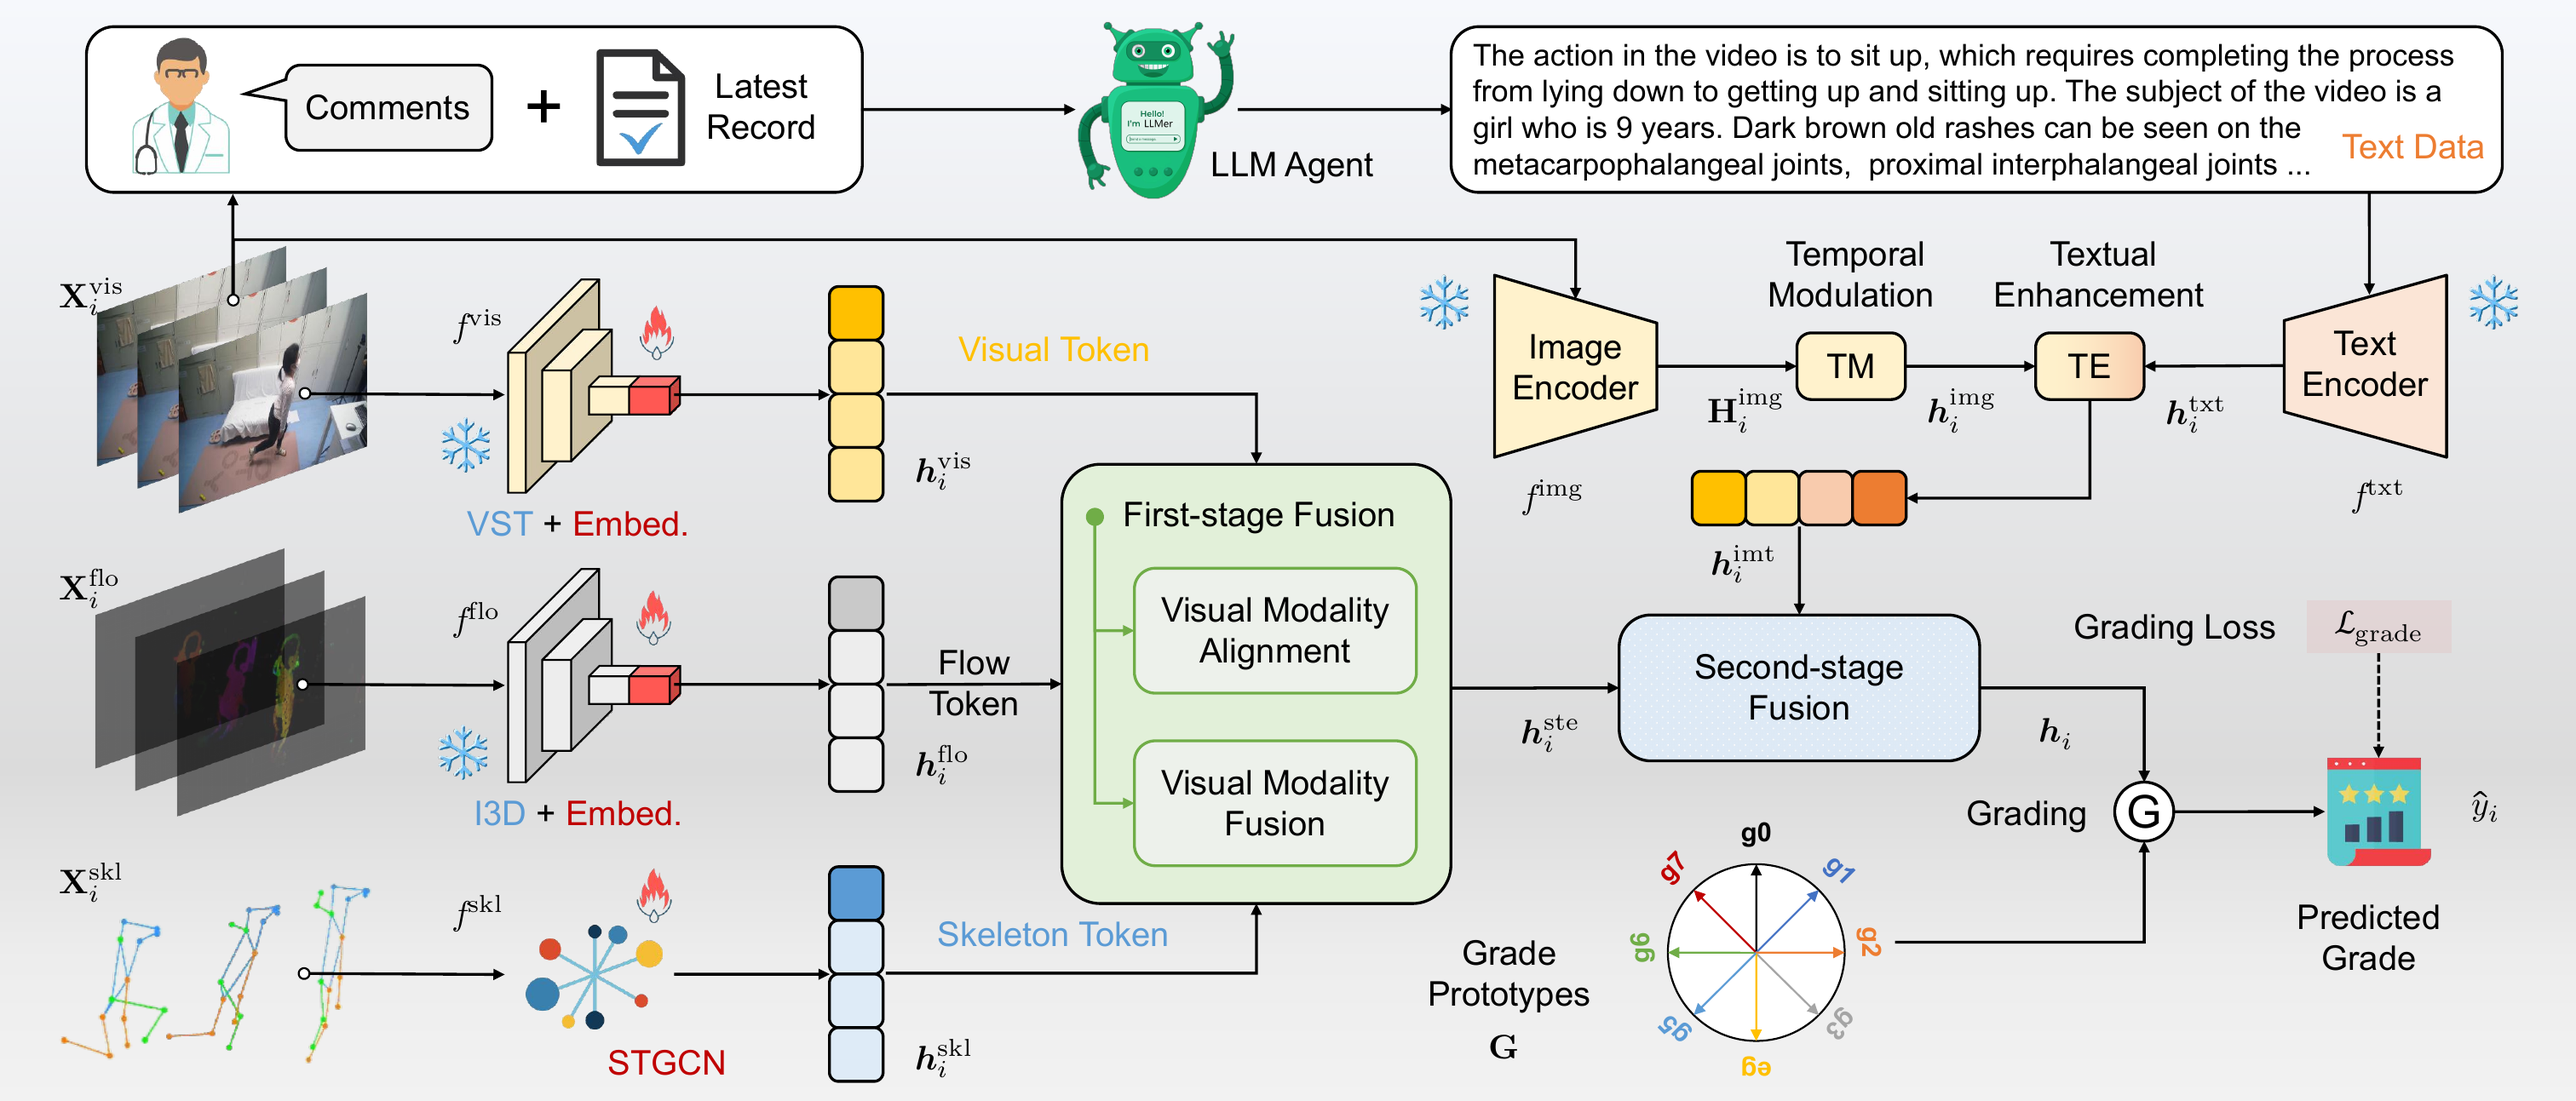
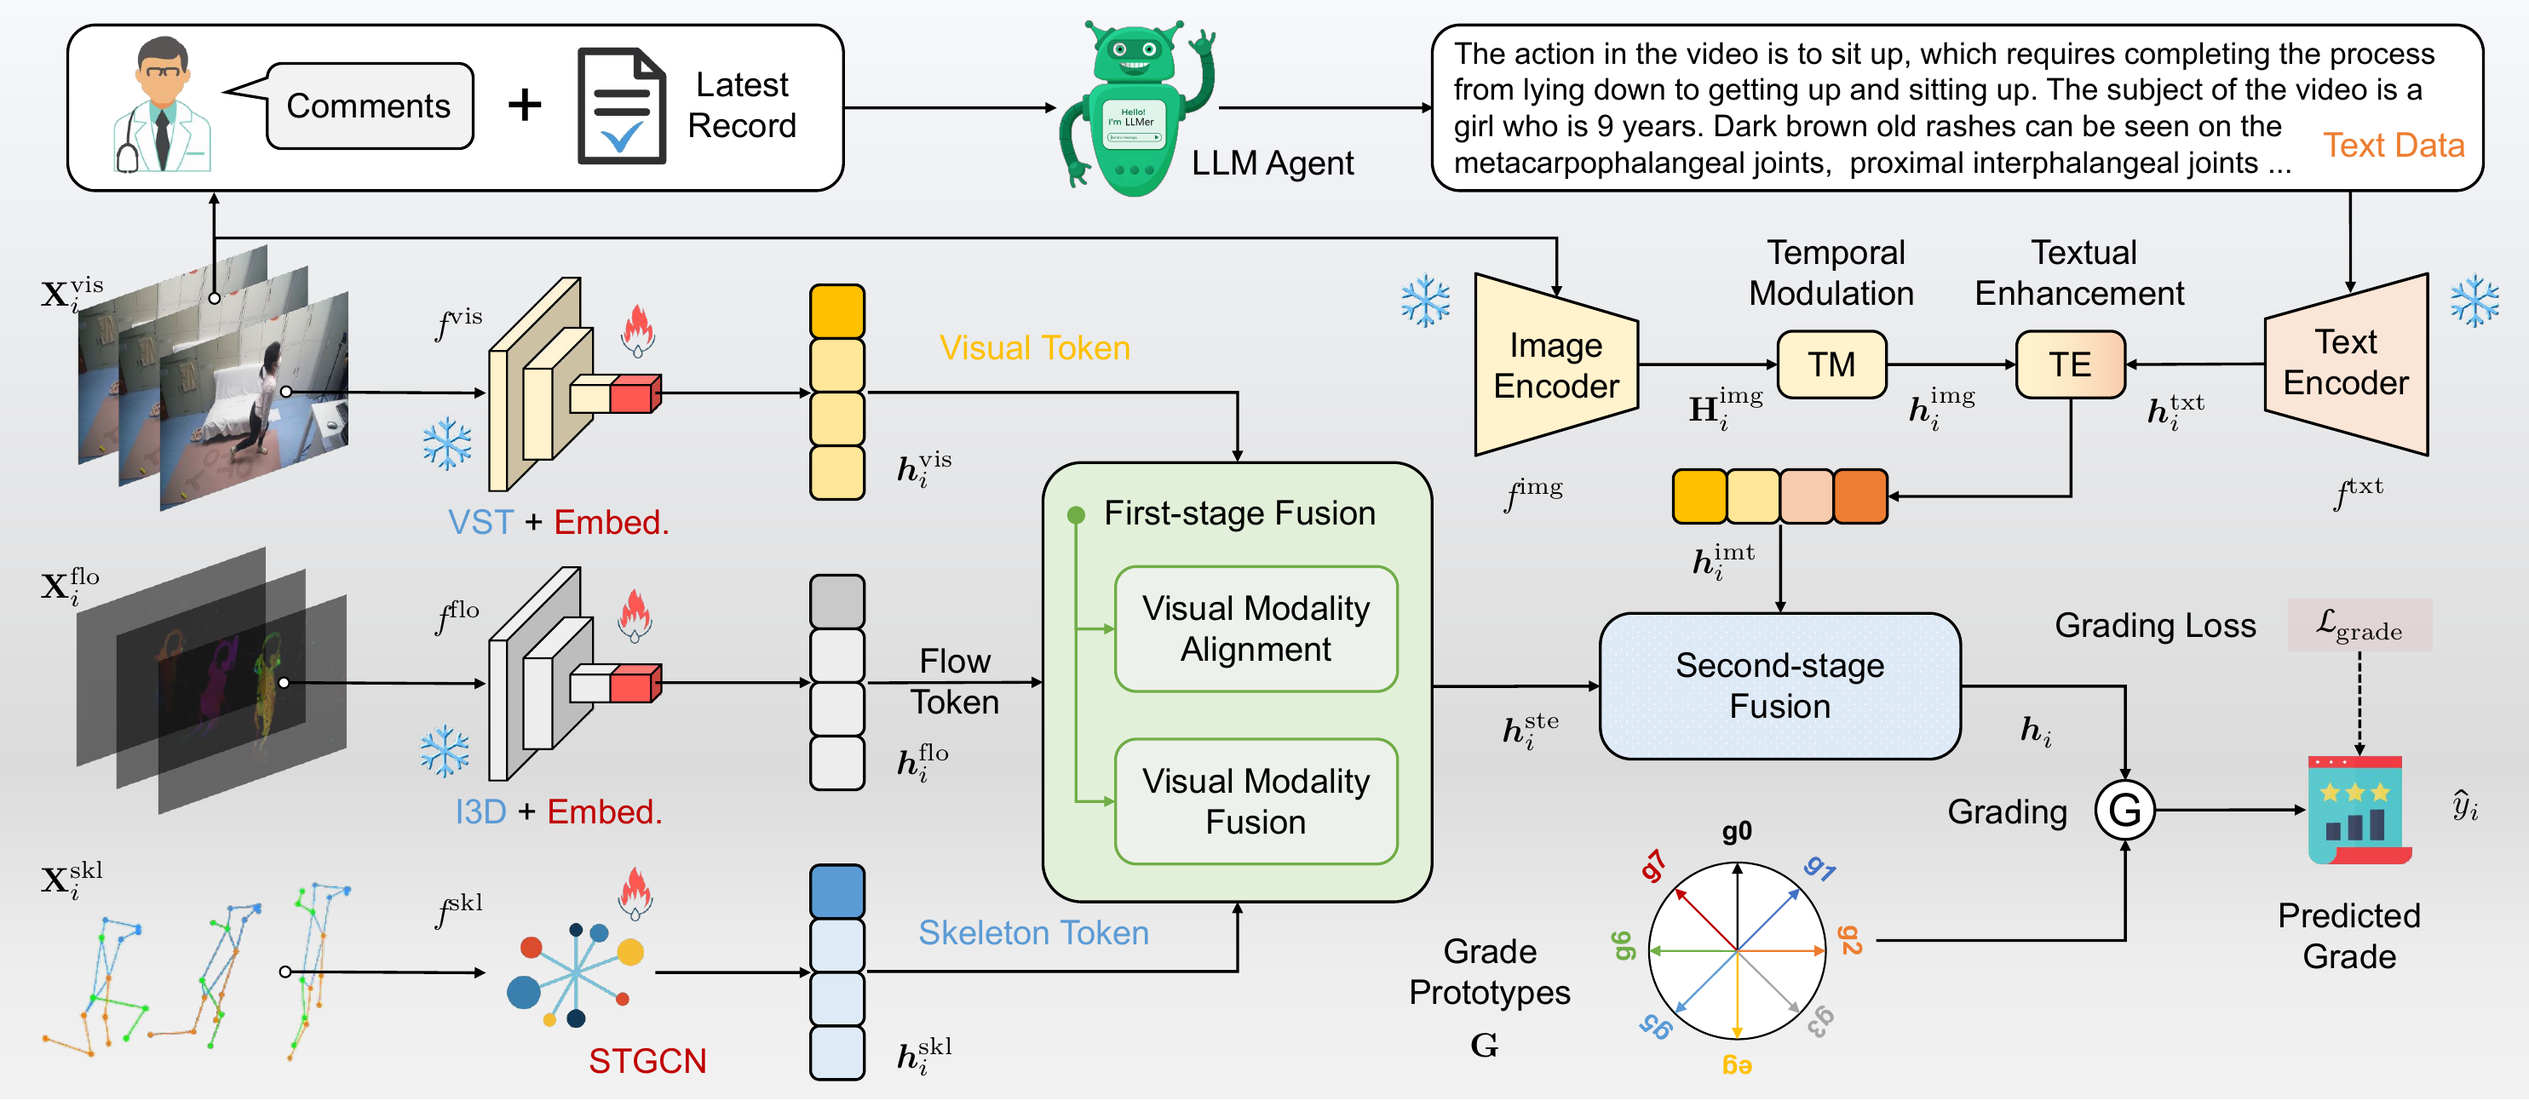
deploy: ZhouKanglei/ZKL-page@44102794fb3c3f9c90567dbfbcd44ae6234ac821

diff --git a/publications/dualalign/index.html b/publications/dualalign/index.html
@@ -3211,9 +3211,9 @@ According to CCF Ranking 2026
 
 
 
-  <div class="article-header article-container featured-image-wrapper mt-4 mb-4" style="max-width: 720px; max-height: 308px;">
+  <div class="article-header article-container featured-image-wrapper mt-4 mb-4" style="max-width: 720px; max-height: 314px;">
     <div style="position: relative">
-      <img src="/publications/dualalign/featured_hua6c4b8fcccd897e5687e3ae7d4469d95_657633_720x2500_fit_q75_h2_lanczos_3.webp" width="720" height="308" alt="" class="featured-image">
+      <img src="/publications/dualalign/featured_hu70d1c5da14e2ca6ae8521eb7d2ceb9fe_657113_720x2500_fit_q75_h2_lanczos_3.webp" width="720" height="314" alt="" class="featured-image">
       <span class="article-header-caption">DualAlign framework overview</span>
     </div>
   </div>

diff --git a/publication-type/2/index.html b/publication-type/2/index.html
@@ -6553,8 +6553,8 @@ According to CCF Ranking 2026
     
       
       <a href="/publications/dualalign/" >
-        <img src="/publications/dualalign/featured_hua6c4b8fcccd897e5687e3ae7d4469d95_657633_150x0_resize_q75_h2_lanczos_3.webp"
-            width="150" height="64"
+        <img src="/publications/dualalign/featured_hu70d1c5da14e2ca6ae8521eb7d2ceb9fe_657113_150x0_resize_q75_h2_lanczos_3.webp"
+            width="150" height="65"
             alt="Two-Stage Multi-Modal Fusion with Adaptive Alignment for Action Quality Assessment" loading="lazy">
       </a>
     

diff --git a/publications/index.html b/publications/index.html
@@ -9935,8 +9935,8 @@ According to CCF Ranking 2026
     
       
       <a href="/publications/dualalign/" >
-        <img src="/publications/dualalign/featured_hua6c4b8fcccd897e5687e3ae7d4469d95_657633_150x0_resize_q75_h2_lanczos_3.webp"
-            width="150" height="64"
+        <img src="/publications/dualalign/featured_hu70d1c5da14e2ca6ae8521eb7d2ceb9fe_657113_150x0_resize_q75_h2_lanczos_3.webp"
+            width="150" height="65"
             alt="Two-Stage Multi-Modal Fusion with Adaptive Alignment for Action Quality Assessment" loading="lazy">
       </a>
     

diff --git a/tag/action-quality-assessment/index.html b/tag/action-quality-assessment/index.html
@@ -5666,8 +5666,8 @@ According to CCF Ranking 2026
     
       
       <a href="/publications/dualalign/" >
-        <img src="/publications/dualalign/featured_hua6c4b8fcccd897e5687e3ae7d4469d95_657633_150x0_resize_q75_h2_lanczos_3.webp"
-            width="150" height="64"
+        <img src="/publications/dualalign/featured_hu70d1c5da14e2ca6ae8521eb7d2ceb9fe_657113_150x0_resize_q75_h2_lanczos_3.webp"
+            width="150" height="65"
             alt="Two-Stage Multi-Modal Fusion with Adaptive Alignment for Action Quality Assessment" loading="lazy">
       </a>
     

diff --git a/tag/highlights/index.html b/tag/highlights/index.html
@@ -7063,8 +7063,8 @@ According to CCF Ranking 2026
     
       
       <a href="/publications/dualalign/" >
-        <img src="/publications/dualalign/featured_hua6c4b8fcccd897e5687e3ae7d4469d95_657633_150x0_resize_q75_h2_lanczos_3.webp"
-            width="150" height="64"
+        <img src="/publications/dualalign/featured_hu70d1c5da14e2ca6ae8521eb7d2ceb9fe_657113_150x0_resize_q75_h2_lanczos_3.webp"
+            width="150" height="65"
             alt="Two-Stage Multi-Modal Fusion with Adaptive Alignment for Action Quality Assessment" loading="lazy">
       </a>
     

diff --git a/tag/multi-modal-learning/index.html b/tag/multi-modal-learning/index.html
@@ -2766,8 +2766,8 @@ According to CCF Ranking 2026
     
       
       <a href="/publications/dualalign/" >
-        <img src="/publications/dualalign/featured_hua6c4b8fcccd897e5687e3ae7d4469d95_657633_150x0_resize_q75_h2_lanczos_3.webp"
-            width="150" height="64"
+        <img src="/publications/dualalign/featured_hu70d1c5da14e2ca6ae8521eb7d2ceb9fe_657113_150x0_resize_q75_h2_lanczos_3.webp"
+            width="150" height="65"
             alt="Two-Stage Multi-Modal Fusion with Adaptive Alignment for Action Quality Assessment" loading="lazy">
       </a>
     
